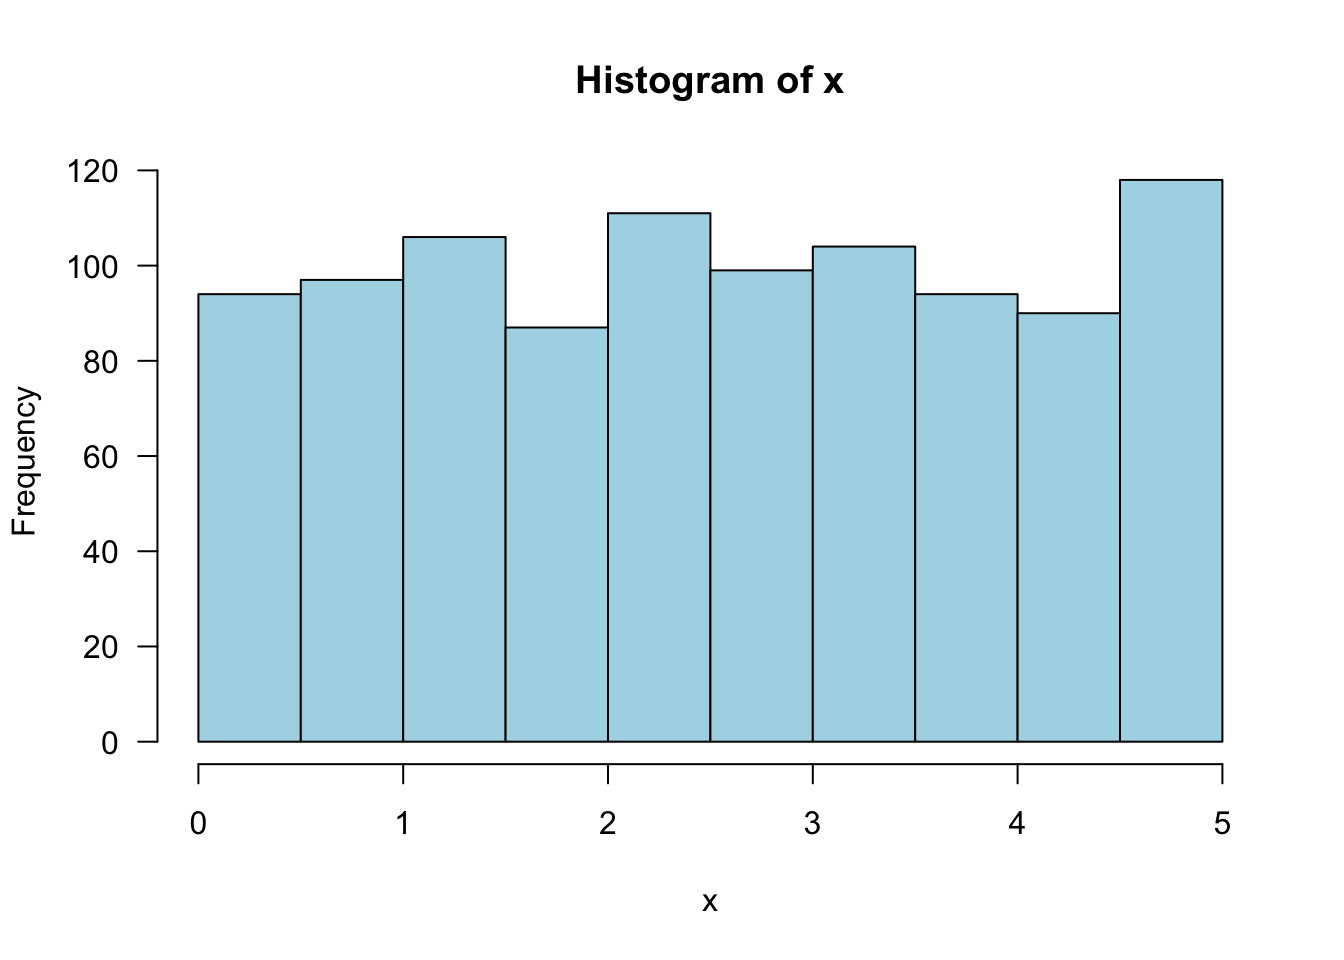
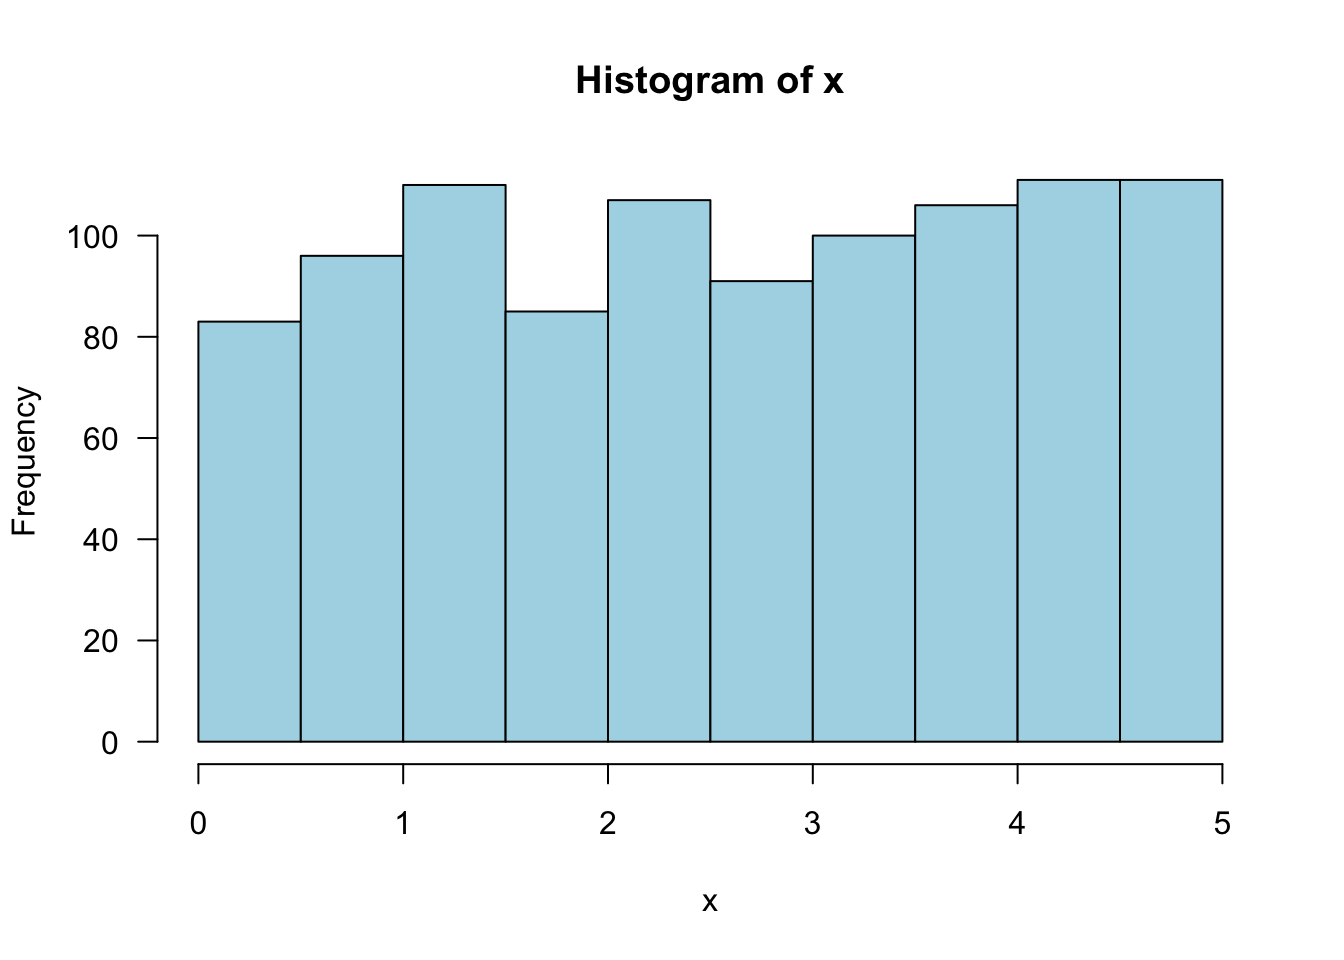
test subheadings

diff --git a/docs/ch-4-continuous-random-variables-and-probability-distributions.html b/docs/ch-4-continuous-random-variables-and-probability-distributions.html
@@ -237,6 +237,9 @@ code span.wa { color: #60a0b0; font-weight: bold; font-style: italic; } /* Warni
 </ul></li>
 <li class="chapter" data-level="" data-path="ch-13-nonlinear-and-multiple-regression.html"><a href="ch-13-nonlinear-and-multiple-regression.html"><i class="fa fa-check"></i>Ch. 13 Nonlinear and Multiple Regression</a><ul>
 <li class="chapter" data-level="" data-path="ch-13-nonlinear-and-multiple-regression.html"><a href="ch-13-nonlinear-and-multiple-regression.html#assessing-model-adequacy"><i class="fa fa-check"></i>13.1 Assessing Model Adequacy</a></li>
+<li class="chapter" data-level="" data-path="ch-13-nonlinear-and-multiple-regression.html"><a href="ch-13-nonlinear-and-multiple-regression.html#additional-resources"><i class="fa fa-check"></i>Additional Resources</a><ul>
+<li class="chapter" data-level="" data-path="ch-13-nonlinear-and-multiple-regression.html"><a href="ch-13-nonlinear-and-multiple-regression.html#general"><i class="fa fa-check"></i>General</a></li>
+</ul></li>
 </ul></li>
 <li class="divider"></li>
 <li><a href="https://github.com/rstudio/bookdown" target="blank">Published with bookdown</a></li>
@@ -270,11 +273,11 @@ code span.wa { color: #60a0b0; font-weight: bold; font-style: italic; } /* Warni
 <p>Randomly choose one number from the distribution:</p>
 <p><span class="math inline">\(f(x) = .2\)</span> for <span class="math inline">\(0 \leq x \leq 5\)</span>, 0 otherwise.</p>
 <pre class="sourceCode r"><code class="sourceCode r"><span class="kw">runif</span>(<span class="dt">n =</span> <span class="dv">1</span>, <span class="dt">min =</span> <span class="dv">0</span>, <span class="dt">max =</span> <span class="dv">5</span>)</code></pre>
-<pre><code>## [1] 1.070273</code></pre>
+<pre><code>## [1] 0.636292</code></pre>
 <p>Take the average of 1000 picks:</p>
 <pre class="sourceCode r"><code class="sourceCode r">x &lt;-<span class="st"> </span><span class="kw">runif</span>(<span class="dt">n =</span> <span class="dv">1000</span>, <span class="dt">min =</span> <span class="dv">0</span>, <span class="dt">max =</span> <span class="dv">5</span>)
 <span class="kw">mean</span>(x)</code></pre>
-<pre><code>## [1] 2.540774</code></pre>
+<pre><code>## [1] 2.593029</code></pre>
 <p>Draw a histogram of the 1000 picks:</p>
 <pre class="sourceCode r"><code class="sourceCode r"><span class="kw">hist</span>(x, <span class="dt">las =</span> <span class="dv">1</span>, <span class="dt">col =</span> <span class="st">&quot;lightblue&quot;</span>)</code></pre>
 <p><img src="STAT1201-resource_files/figure-html/unnamed-chunk-29-1.png" width="672" /></p>

diff --git a/docs/ch-13-nonlinear-and-multiple-regression.html b/docs/ch-13-nonlinear-and-multiple-regression.html
@@ -237,6 +237,9 @@ code span.wa { color: #60a0b0; font-weight: bold; font-style: italic; } /* Warni
 </ul></li>
 <li class="chapter" data-level="" data-path="ch-13-nonlinear-and-multiple-regression.html"><a href="ch-13-nonlinear-and-multiple-regression.html"><i class="fa fa-check"></i>Ch. 13 Nonlinear and Multiple Regression</a><ul>
 <li class="chapter" data-level="" data-path="ch-13-nonlinear-and-multiple-regression.html"><a href="ch-13-nonlinear-and-multiple-regression.html#assessing-model-adequacy"><i class="fa fa-check"></i>13.1 Assessing Model Adequacy</a></li>
+<li class="chapter" data-level="" data-path="ch-13-nonlinear-and-multiple-regression.html"><a href="ch-13-nonlinear-and-multiple-regression.html#additional-resources"><i class="fa fa-check"></i>Additional Resources</a><ul>
+<li class="chapter" data-level="" data-path="ch-13-nonlinear-and-multiple-regression.html"><a href="ch-13-nonlinear-and-multiple-regression.html#general"><i class="fa fa-check"></i>General</a></li>
+</ul></li>
 </ul></li>
 <li class="divider"></li>
 <li><a href="https://github.com/rstudio/bookdown" target="blank">Published with bookdown</a></li>
@@ -267,7 +270,14 @@ code span.wa { color: #60a0b0; font-weight: bold; font-style: italic; } /* Warni
 <p>Residuals plots: know <span class="math inline">\(e\)</span> vs. <span class="math inline">\(x\)</span> only</p>
 <p>Difficulties and remedies: 1. - 4. – know the difficulties, not the remedies</p>
 <p>Skip: weighted least squares (p. 547)</p>
+</div>
+<div id="additional-resources" class="section level2 unnumbered">
+<h2>Additional Resources</h2>
+<div id="general" class="section level3 unnumbered">
+<h3>General</h3>
+<p><strong>General</strong></p>
 
+</div>
 </div>
 </div>
             </section>

diff --git a/docs/ch-1-descriptive-statistics.html b/docs/ch-1-descriptive-statistics.html
@@ -237,6 +237,9 @@ code span.wa { color: #60a0b0; font-weight: bold; font-style: italic; } /* Warni
 </ul></li>
 <li class="chapter" data-level="" data-path="ch-13-nonlinear-and-multiple-regression.html"><a href="ch-13-nonlinear-and-multiple-regression.html"><i class="fa fa-check"></i>Ch. 13 Nonlinear and Multiple Regression</a><ul>
 <li class="chapter" data-level="" data-path="ch-13-nonlinear-and-multiple-regression.html"><a href="ch-13-nonlinear-and-multiple-regression.html#assessing-model-adequacy"><i class="fa fa-check"></i>13.1 Assessing Model Adequacy</a></li>
+<li class="chapter" data-level="" data-path="ch-13-nonlinear-and-multiple-regression.html"><a href="ch-13-nonlinear-and-multiple-regression.html#additional-resources"><i class="fa fa-check"></i>Additional Resources</a><ul>
+<li class="chapter" data-level="" data-path="ch-13-nonlinear-and-multiple-regression.html"><a href="ch-13-nonlinear-and-multiple-regression.html#general"><i class="fa fa-check"></i>General</a></li>
+</ul></li>
 </ul></li>
 <li class="divider"></li>
 <li><a href="https://github.com/rstudio/bookdown" target="blank">Published with bookdown</a></li>

diff --git a/docs/ch-12-linear-regression.html b/docs/ch-12-linear-regression.html
@@ -237,6 +237,9 @@ code span.wa { color: #60a0b0; font-weight: bold; font-style: italic; } /* Warni
 </ul></li>
 <li class="chapter" data-level="" data-path="ch-13-nonlinear-and-multiple-regression.html"><a href="ch-13-nonlinear-and-multiple-regression.html"><i class="fa fa-check"></i>Ch. 13 Nonlinear and Multiple Regression</a><ul>
 <li class="chapter" data-level="" data-path="ch-13-nonlinear-and-multiple-regression.html"><a href="ch-13-nonlinear-and-multiple-regression.html#assessing-model-adequacy"><i class="fa fa-check"></i>13.1 Assessing Model Adequacy</a></li>
+<li class="chapter" data-level="" data-path="ch-13-nonlinear-and-multiple-regression.html"><a href="ch-13-nonlinear-and-multiple-regression.html#additional-resources"><i class="fa fa-check"></i>Additional Resources</a><ul>
+<li class="chapter" data-level="" data-path="ch-13-nonlinear-and-multiple-regression.html"><a href="ch-13-nonlinear-and-multiple-regression.html#general"><i class="fa fa-check"></i>General</a></li>
+</ul></li>
 </ul></li>
 <li class="divider"></li>
 <li><a href="https://github.com/rstudio/bookdown" target="blank">Published with bookdown</a></li>

diff --git a/docs/ch-14-chi-squared-test.html b/docs/ch-14-chi-squared-test.html
@@ -237,6 +237,9 @@ code span.wa { color: #60a0b0; font-weight: bold; font-style: italic; } /* Warni
 </ul></li>
 <li class="chapter" data-level="" data-path="ch-13-nonlinear-and-multiple-regression.html"><a href="ch-13-nonlinear-and-multiple-regression.html"><i class="fa fa-check"></i>Ch. 13 Nonlinear and Multiple Regression</a><ul>
 <li class="chapter" data-level="" data-path="ch-13-nonlinear-and-multiple-regression.html"><a href="ch-13-nonlinear-and-multiple-regression.html#assessing-model-adequacy"><i class="fa fa-check"></i>13.1 Assessing Model Adequacy</a></li>
+<li class="chapter" data-level="" data-path="ch-13-nonlinear-and-multiple-regression.html"><a href="ch-13-nonlinear-and-multiple-regression.html#additional-resources"><i class="fa fa-check"></i>Additional Resources</a><ul>
+<li class="chapter" data-level="" data-path="ch-13-nonlinear-and-multiple-regression.html"><a href="ch-13-nonlinear-and-multiple-regression.html#general"><i class="fa fa-check"></i>General</a></li>
+</ul></li>
 </ul></li>
 <li class="divider"></li>
 <li><a href="https://github.com/rstudio/bookdown" target="blank">Published with bookdown</a></li>

diff --git a/docs/ch-2-conditional-probability.html b/docs/ch-2-conditional-probability.html
@@ -237,6 +237,9 @@ code span.wa { color: #60a0b0; font-weight: bold; font-style: italic; } /* Warni
 </ul></li>
 <li class="chapter" data-level="" data-path="ch-13-nonlinear-and-multiple-regression.html"><a href="ch-13-nonlinear-and-multiple-regression.html"><i class="fa fa-check"></i>Ch. 13 Nonlinear and Multiple Regression</a><ul>
 <li class="chapter" data-level="" data-path="ch-13-nonlinear-and-multiple-regression.html"><a href="ch-13-nonlinear-and-multiple-regression.html#assessing-model-adequacy"><i class="fa fa-check"></i>13.1 Assessing Model Adequacy</a></li>
+<li class="chapter" data-level="" data-path="ch-13-nonlinear-and-multiple-regression.html"><a href="ch-13-nonlinear-and-multiple-regression.html#additional-resources"><i class="fa fa-check"></i>Additional Resources</a><ul>
+<li class="chapter" data-level="" data-path="ch-13-nonlinear-and-multiple-regression.html"><a href="ch-13-nonlinear-and-multiple-regression.html#general"><i class="fa fa-check"></i>General</a></li>
+</ul></li>
 </ul></li>
 <li class="divider"></li>
 <li><a href="https://github.com/rstudio/bookdown" target="blank">Published with bookdown</a></li>

diff --git a/docs/ch-2-probability.html b/docs/ch-2-probability.html
@@ -237,6 +237,9 @@ code span.wa { color: #60a0b0; font-weight: bold; font-style: italic; } /* Warni
 </ul></li>
 <li class="chapter" data-level="" data-path="ch-13-nonlinear-and-multiple-regression.html"><a href="ch-13-nonlinear-and-multiple-regression.html"><i class="fa fa-check"></i>Ch. 13 Nonlinear and Multiple Regression</a><ul>
 <li class="chapter" data-level="" data-path="ch-13-nonlinear-and-multiple-regression.html"><a href="ch-13-nonlinear-and-multiple-regression.html#assessing-model-adequacy"><i class="fa fa-check"></i>13.1 Assessing Model Adequacy</a></li>
+<li class="chapter" data-level="" data-path="ch-13-nonlinear-and-multiple-regression.html"><a href="ch-13-nonlinear-and-multiple-regression.html#additional-resources"><i class="fa fa-check"></i>Additional Resources</a><ul>
+<li class="chapter" data-level="" data-path="ch-13-nonlinear-and-multiple-regression.html"><a href="ch-13-nonlinear-and-multiple-regression.html#general"><i class="fa fa-check"></i>General</a></li>
+</ul></li>
 </ul></li>
 <li class="divider"></li>
 <li><a href="https://github.com/rstudio/bookdown" target="blank">Published with bookdown</a></li>

diff --git a/docs/ch-3-discrete-distributions.html b/docs/ch-3-discrete-distributions.html
@@ -237,6 +237,9 @@ code span.wa { color: #60a0b0; font-weight: bold; font-style: italic; } /* Warni
 </ul></li>
 <li class="chapter" data-level="" data-path="ch-13-nonlinear-and-multiple-regression.html"><a href="ch-13-nonlinear-and-multiple-regression.html"><i class="fa fa-check"></i>Ch. 13 Nonlinear and Multiple Regression</a><ul>
 <li class="chapter" data-level="" data-path="ch-13-nonlinear-and-multiple-regression.html"><a href="ch-13-nonlinear-and-multiple-regression.html#assessing-model-adequacy"><i class="fa fa-check"></i>13.1 Assessing Model Adequacy</a></li>
+<li class="chapter" data-level="" data-path="ch-13-nonlinear-and-multiple-regression.html"><a href="ch-13-nonlinear-and-multiple-regression.html#additional-resources"><i class="fa fa-check"></i>Additional Resources</a><ul>
+<li class="chapter" data-level="" data-path="ch-13-nonlinear-and-multiple-regression.html"><a href="ch-13-nonlinear-and-multiple-regression.html#general"><i class="fa fa-check"></i>General</a></li>
+</ul></li>
 </ul></li>
 <li class="divider"></li>
 <li><a href="https://github.com/rstudio/bookdown" target="blank">Published with bookdown</a></li>

diff --git a/docs/ch-5-joint-probability.html b/docs/ch-5-joint-probability.html
@@ -237,6 +237,9 @@ code span.wa { color: #60a0b0; font-weight: bold; font-style: italic; } /* Warni
 </ul></li>
 <li class="chapter" data-level="" data-path="ch-13-nonlinear-and-multiple-regression.html"><a href="ch-13-nonlinear-and-multiple-regression.html"><i class="fa fa-check"></i>Ch. 13 Nonlinear and Multiple Regression</a><ul>
 <li class="chapter" data-level="" data-path="ch-13-nonlinear-and-multiple-regression.html"><a href="ch-13-nonlinear-and-multiple-regression.html#assessing-model-adequacy"><i class="fa fa-check"></i>13.1 Assessing Model Adequacy</a></li>
+<li class="chapter" data-level="" data-path="ch-13-nonlinear-and-multiple-regression.html"><a href="ch-13-nonlinear-and-multiple-regression.html#additional-resources"><i class="fa fa-check"></i>Additional Resources</a><ul>
+<li class="chapter" data-level="" data-path="ch-13-nonlinear-and-multiple-regression.html"><a href="ch-13-nonlinear-and-multiple-regression.html#general"><i class="fa fa-check"></i>General</a></li>
+</ul></li>
 </ul></li>
 <li class="divider"></li>
 <li><a href="https://github.com/rstudio/bookdown" target="blank">Published with bookdown</a></li>

diff --git a/docs/ch-5-random-samples.html b/docs/ch-5-random-samples.html
@@ -237,6 +237,9 @@ code span.wa { color: #60a0b0; font-weight: bold; font-style: italic; } /* Warni
 </ul></li>
 <li class="chapter" data-level="" data-path="ch-13-nonlinear-and-multiple-regression.html"><a href="ch-13-nonlinear-and-multiple-regression.html"><i class="fa fa-check"></i>Ch. 13 Nonlinear and Multiple Regression</a><ul>
 <li class="chapter" data-level="" data-path="ch-13-nonlinear-and-multiple-regression.html"><a href="ch-13-nonlinear-and-multiple-regression.html#assessing-model-adequacy"><i class="fa fa-check"></i>13.1 Assessing Model Adequacy</a></li>
+<li class="chapter" data-level="" data-path="ch-13-nonlinear-and-multiple-regression.html"><a href="ch-13-nonlinear-and-multiple-regression.html#additional-resources"><i class="fa fa-check"></i>Additional Resources</a><ul>
+<li class="chapter" data-level="" data-path="ch-13-nonlinear-and-multiple-regression.html"><a href="ch-13-nonlinear-and-multiple-regression.html#general"><i class="fa fa-check"></i>General</a></li>
+</ul></li>
 </ul></li>
 <li class="divider"></li>
 <li><a href="https://github.com/rstudio/bookdown" target="blank">Published with bookdown</a></li>

diff --git a/docs/ch-6-point-estimation.html b/docs/ch-6-point-estimation.html
@@ -237,6 +237,9 @@ code span.wa { color: #60a0b0; font-weight: bold; font-style: italic; } /* Warni
 </ul></li>
 <li class="chapter" data-level="" data-path="ch-13-nonlinear-and-multiple-regression.html"><a href="ch-13-nonlinear-and-multiple-regression.html"><i class="fa fa-check"></i>Ch. 13 Nonlinear and Multiple Regression</a><ul>
 <li class="chapter" data-level="" data-path="ch-13-nonlinear-and-multiple-regression.html"><a href="ch-13-nonlinear-and-multiple-regression.html#assessing-model-adequacy"><i class="fa fa-check"></i>13.1 Assessing Model Adequacy</a></li>
+<li class="chapter" data-level="" data-path="ch-13-nonlinear-and-multiple-regression.html"><a href="ch-13-nonlinear-and-multiple-regression.html#additional-resources"><i class="fa fa-check"></i>Additional Resources</a><ul>
+<li class="chapter" data-level="" data-path="ch-13-nonlinear-and-multiple-regression.html"><a href="ch-13-nonlinear-and-multiple-regression.html#general"><i class="fa fa-check"></i>General</a></li>
+</ul></li>
 </ul></li>
 <li class="divider"></li>
 <li><a href="https://github.com/rstudio/bookdown" target="blank">Published with bookdown</a></li>

diff --git a/docs/ch-7-statistical-intervals-based-on-a-single-sample.html b/docs/ch-7-statistical-intervals-based-on-a-single-sample.html
@@ -237,6 +237,9 @@ code span.wa { color: #60a0b0; font-weight: bold; font-style: italic; } /* Warni
 </ul></li>
 <li class="chapter" data-level="" data-path="ch-13-nonlinear-and-multiple-regression.html"><a href="ch-13-nonlinear-and-multiple-regression.html"><i class="fa fa-check"></i>Ch. 13 Nonlinear and Multiple Regression</a><ul>
 <li class="chapter" data-level="" data-path="ch-13-nonlinear-and-multiple-regression.html"><a href="ch-13-nonlinear-and-multiple-regression.html#assessing-model-adequacy"><i class="fa fa-check"></i>13.1 Assessing Model Adequacy</a></li>
+<li class="chapter" data-level="" data-path="ch-13-nonlinear-and-multiple-regression.html"><a href="ch-13-nonlinear-and-multiple-regression.html#additional-resources"><i class="fa fa-check"></i>Additional Resources</a><ul>
+<li class="chapter" data-level="" data-path="ch-13-nonlinear-and-multiple-regression.html"><a href="ch-13-nonlinear-and-multiple-regression.html#general"><i class="fa fa-check"></i>General</a></li>
+</ul></li>
 </ul></li>
 <li class="divider"></li>
 <li><a href="https://github.com/rstudio/bookdown" target="blank">Published with bookdown</a></li>
